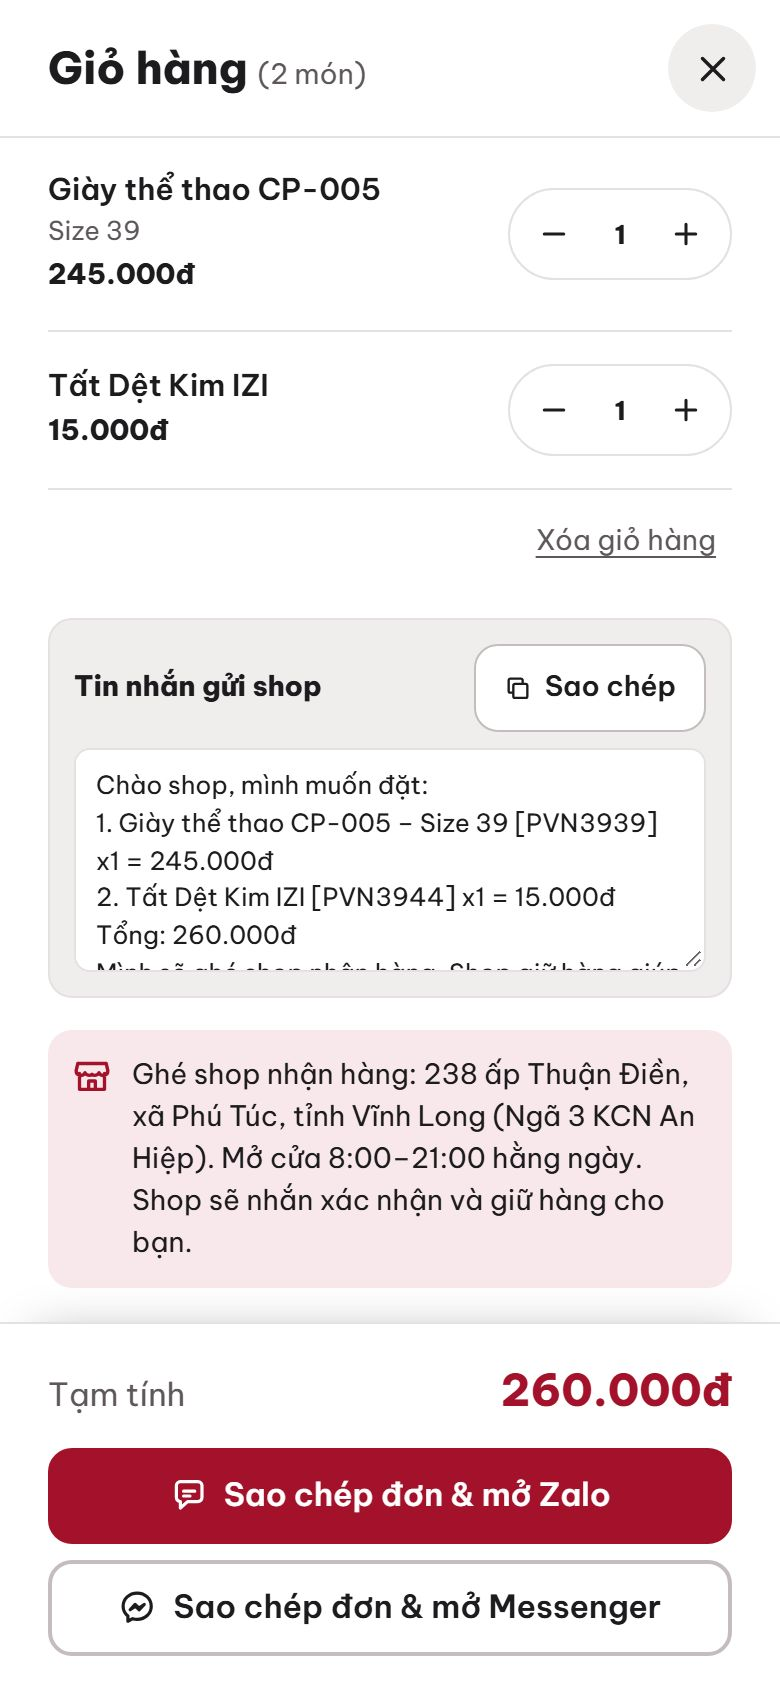
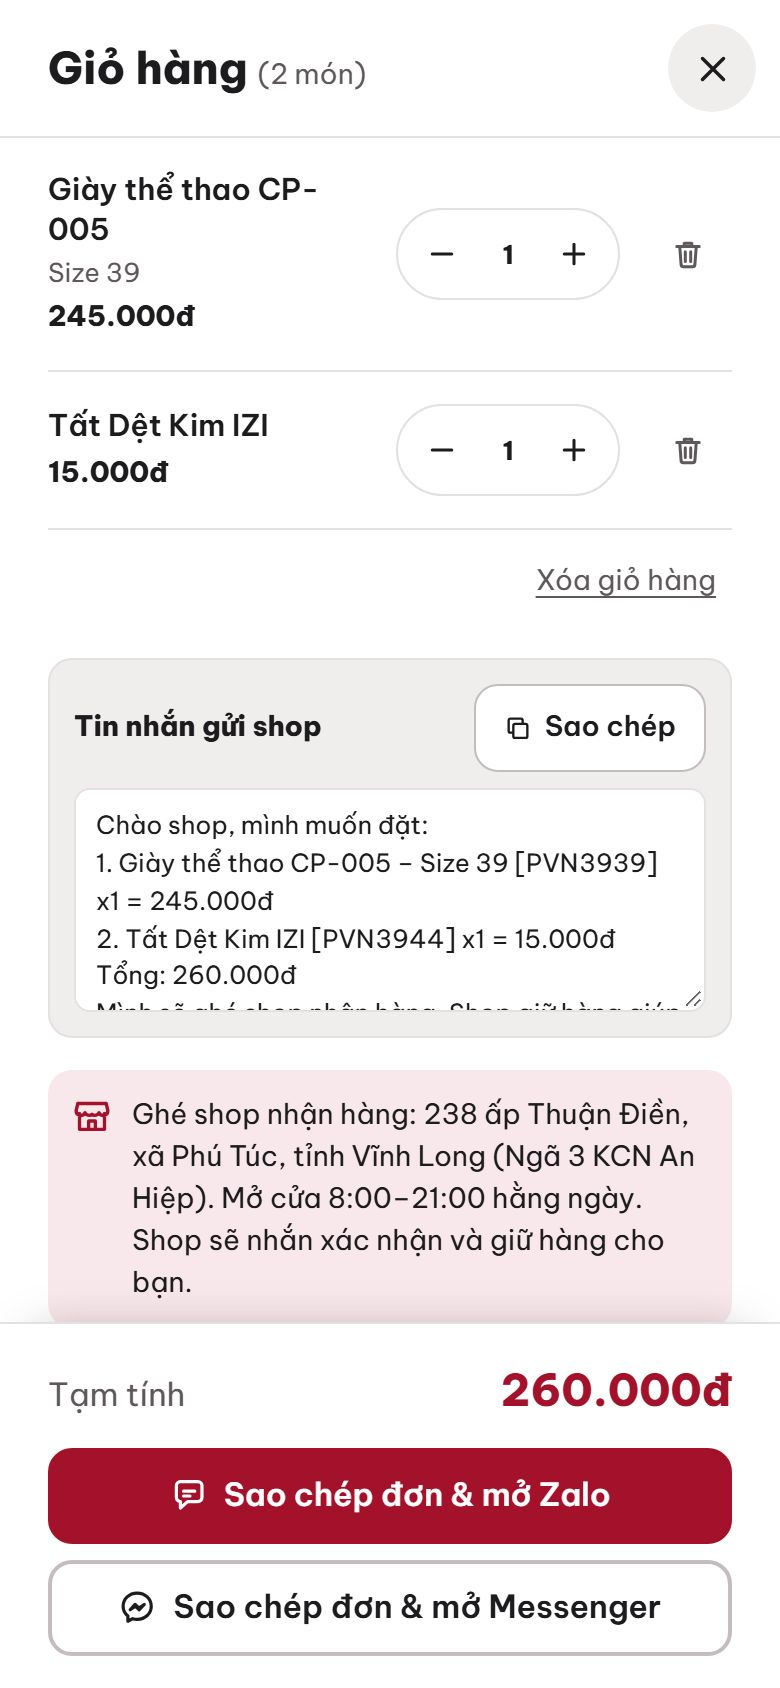
Sửa 13 phát hiện rà soát giao diện mới (Next.js) + kiểm thử chống tái phát
- Thẻ: điện thoại chỉ hiện hãng ở dòng nhỏ (không bị cắt), bỏ khoảng trống dưới tên ngắn,
  size hết hàng viền nét đứt; hình minh họa không in số trên áo
- Phần mở đầu điện thoại không lặp nút Zalo; dải lợi ích căn đều; thẻ Ghé shop bỏ dòng lặp ý
- Giỏ: nút bỏ từng món (≥ 44 px, nhãn đọc màn hình)
- Cuộn tôn trọng giảm chuyển động (scrollMode); cờ tìm nhanh hết hạn 3 giây;
  key cho trang chi tiết; xóa mã thừa (hueOf, .sr, .btn.block)
- test_giao_dien mục 8 (10 kiểm tra); tất cả bài 0 lỗi; pytest 28 đạt;
  Lighthouse trang chủ 99/100/100/100, trang SP 100/100/100/100; ảnh after chụp lại
- QUESTIONS Q12: ngưỡng nhãn Sắp hết

diff --git a/sport-shop-next/frontend/app/globals.css b/sport-shop-next/frontend/app/globals.css
@@ -68,7 +68,6 @@ h1,h2,h3{line-height:1.2;margin:0}p{margin:0}
 .strip :focus-visible,.hero :focus-visible,.promo :focus-visible,footer :focus-visible{outline-color:#fff}
 .wrap{max-width:1180px;margin:0 auto;padding:0 20px}
 .i{flex:none;width:1em;height:1em;vertical-align:-.15em}
-.sr{position:absolute;width:1px;height:1px;overflow:hidden;clip:rect(0 0 0 0);white-space:nowrap}
 
 /* ===== Nút ===== */
 .btn{display:inline-flex;align-items:center;justify-content:center;gap:var(--sp-2);min-height:48px;padding:0 var(--sp-5);border:2px solid var(--brand);border-radius:var(--r);background:var(--brand);color:var(--on-brand);font-weight:600;font-size:var(--fs-base);line-height:1.2;text-decoration:none;text-align:center;cursor:pointer;transition:background-color var(--dur) var(--ease),border-color var(--dur) var(--ease),color var(--dur) var(--ease),transform var(--dur) var(--ease)}
@@ -82,7 +81,6 @@ h1,h2,h3{line-height:1.2;margin:0}p{margin:0}
 .btn.light{background:transparent;border-color:rgba(255,255,255,.6);color:#fff}
 .btn.light:hover{background:rgba(255,255,255,.12);border-color:#fff}
 .btn.sm{min-height:44px;padding:0 var(--sp-4);font-size:var(--fs-md)}
-.btn.block{width:100%}
 .ib{display:inline-grid;place-items:center;flex:none;position:relative;width:44px;height:44px;border-radius:var(--r-pill);border:1px solid var(--line);background:var(--surface);color:var(--ink);font-size:21px;text-decoration:none;transition:background-color var(--dur) var(--ease),border-color var(--dur) var(--ease)}
 .ib:hover{border-color:var(--line-strong);background:var(--surface-2)}
 .ib:active{transform:translateY(1px)}
@@ -484,4 +482,26 @@ footer .fnote{grid-column:1/-1;padding-top:var(--sp-4);border-top:1px solid rgba
 /* Giảm chuyển động: tắt hiệu ứng, cuộn tức thì */
 @media(prefers-reduced-motion:reduce){
   *,*::before,*::after{animation:none!important;transition:none!important;scroll-behavior:auto!important}
+}
+
+/* ===== Sửa sau rà soát giao diện (24/11/2026) ===== */
+/* giỏ: nút bỏ từng món */
+.ci>div:first-child{flex:1;min-width:0}
+.rmi{display:grid;place-items:center;flex:none;width:44px;height:44px;border:0;border-radius:50%;background:none;color:var(--muted);font-size:18px}
+.rmi:hover{color:var(--danger);background:var(--surface-2)}
+/* size hết hàng trên thẻ: viền nét đứt như trang chi tiết, chữ không mờ */
+.szb:disabled{background:transparent;border:1.5px dashed var(--line-strong);color:var(--muted);opacity:1}
+@media(max-width:860px){
+ /* thanh dưới đã có nút Zalo: phần mở đầu chỉ giữ "Xem sản phẩm" */
+ .hbtns .btn.light[data-zl]{display:none}
+ .hbtns{grid-template-columns:1fr}
+}
+@media(max-width:600px){
+ /* dòng nhỏ trên tên: chỉ hiện hãng (nếu có) để không bị cắt; không có hãng thì hiện danh mục */
+ .cinfo small.hb .mc,.cinfo small.hb .sep{display:none}
+ /* tên ngắn không chừa khoảng trống 2 dòng */
+ .cinfo h3{min-height:0}
+ /* dải lợi ích: ba cột căn đỉnh, chữ chia dòng cân */
+ .perks li{justify-content:flex-start}
+ .perks b{text-wrap:balance}
 }

diff --git a/sport-shop-next/frontend/components/Shop.tsx b/sport-shop-next/frontend/components/Shop.tsx
@@ -1,7 +1,7 @@
 "use client";
 import Link from "next/link";
 import { useEffect, useMemo, useRef, useState, type CSSProperties } from "react";
-import { artColors, CATEGORIES, colorStock, defaultColor, fold, hexesIn, ICON_OF, imgsFor, links, money, optLabel, PAGE, stockStatus, unpack, type Packed, type Product } from "@/lib/shop";
+import { artColors, CATEGORIES, scrollMode, colorStock, defaultColor, fold, hexesIn, ICON_OF, imgsFor, links, money, optLabel, PAGE, stockStatus, unpack, type Packed, type Product } from "@/lib/shop";
 import { focusSearch, searchIntent } from "./Header";
 import { Art, CatIcon, Icon } from "./Icons";
 import { useShop } from "./Providers";
@@ -58,7 +58,7 @@ function Card({ p }: { p: Product }) {
         {first ? <img src={first} alt={p.name} loading="lazy" decoding="async" width={400} height={400} /> : <Placeholder p={p} color={color} />}
       </Link>
       <div className="cinfo">
-        <small>{p.cat}{p.brand && ` · ${p.brand}`}</small>
+        <small className={p.brand ? "hb" : undefined}><span className="mc">{p.cat}</span>{p.brand && <span className="mbr"><span className="sep"> · </span>{p.brand}</span>}</small>
         <h3><Link href={href} className="nm" onClick={remember}>{p.name}</Link></h3>
         <div className="price">{(lo !== hi ? "Từ " : "") + money(lo)}</div>
         {multi && (
@@ -119,8 +119,9 @@ export default function Storefront({ data, updated }: { data: Packed; updated: s
   }, [ret]);
   // Bấm nút tìm ở đầu trang khi đang ở trang khác: tới đây rồi đặt con trỏ vào ô tìm
   useEffect(() => {
-    if (!searchIntent.pending) return;
-    searchIntent.pending = false;
+    const fresh = searchIntent.at && Date.now() - searchIntent.at < 3000;
+    searchIntent.at = 0;
+    if (!fresh) return;
     const t = setTimeout(focusSearch, 60);
     return () => clearTimeout(t);
   }, []);
@@ -132,7 +133,7 @@ export default function Storefront({ data, updated }: { data: Packed; updated: s
   }, [S.limit]);
 
   const set = (patch: Partial<typeof S>) => setList((s) => ({ ...s, ...patch, limit: PAGE }));
-  const goCat = (c: string) => { set({ cat: c }); document.getElementById("san-pham")?.scrollIntoView({ behavior: "smooth" }); };
+  const goCat = (c: string) => { set({ cat: c }); document.getElementById("san-pham")?.scrollIntoView({ behavior: scrollMode() }); };
 
   return (
     <>

diff --git a/sport-shop-next/frontend/components/ArtSprite.tsx b/sport-shop-next/frontend/components/ArtSprite.tsx
@@ -11,7 +11,7 @@ const FLOOR = <ellipse cx="100" cy="176" rx="66" ry="7" stroke="none" style={{ f
 const NUM: CSSProperties = { fill: "var(--n)", fontFamily: "var(--font), system-ui, sans-serif" };
 const JERSEY = "M72 36 50 43 26 64l14 26 16-9v81q0 5 5 5h78q5 0 5-5V81l16 9 14-26-24-21-22-7q-7 14-28 15-21-1-28-15z";
 
-function Jersey({ crest, num }: { crest?: boolean; num: string }) {
+function Jersey({ crest, num = "" }: { crest?: boolean; num?: string }) {
   return (
     <>
       <path style={A} d={JERSEY} />
@@ -20,7 +20,7 @@ function Jersey({ crest, num }: { crest?: boolean; num: string }) {
       <path fill="rgba(0,0,0,.2)" stroke="none" d="M76 37q24 11 48 0-4 11-24 12-20-1-24-12z" />
       <path fill="none" style={{ stroke: "var(--b)" }} strokeWidth={6} d="M73 37q7 14 27 14t27-14" />
       {crest && <path style={B} strokeWidth={2} d="M117 66h14v8q0 7-7 10-7-3-7-10z" />}
-      <text x="100" y={crest ? 126 : 120} textAnchor="middle" fontSize={crest ? 27 : 32} fontWeight={800} stroke="none" letterSpacing="-1" style={NUM}>{num}</text>
+      {num && <text x="100" y={crest ? 126 : 120} textAnchor="middle" fontSize={crest ? 27 : 32} fontWeight={800} stroke="none" letterSpacing="-1" style={NUM}>{num}</text>}
       <path fill="none" d={JERSEY} />
     </>
   );
@@ -29,9 +29,9 @@ function Jersey({ crest, num }: { crest?: boolean; num: string }) {
 const LACES = <path fill="none" style={{ stroke: "var(--l)" }} strokeWidth={3.5} d="M120 77l9 9M114 84l9 9M108 91l9 9" />;
 
 const ART: Record<string, React.ReactNode> = {
-  jersey: <Jersey crest num="238" />,
-  tee: <Jersey num="238" />,
-  kids: <g transform="translate(22 40) scale(.78)"><Jersey num="8" /></g>,
+  jersey: <Jersey crest />,
+  tee: <Jersey />,
+  kids: <g transform="translate(22 40) scale(.78)"><Jersey /></g>,
   boot: (
     <>
       <path style={A} d="M30 132c-2-20 10-30 28-32l28-4c6-12 14-22 26-26l16 2c4 16 16 26 34 32l16 6c10 4 12 16 6 24l-4 4-146 2c-4-1-4-4-4-8z" />

diff --git a/sport-shop-next/frontend/components/ProductDetail.tsx b/sport-shop-next/frontend/components/ProductDetail.tsx
@@ -2,7 +2,7 @@
 import Link from "next/link";
 import { useRouter } from "next/navigation";
 import { useEffect, useRef, useState } from "react";
-import { colorStock, defaultColor, HOURS, imgsFor, links, money, NEED_SIZE, optLabel, phone, priceText, sizeGroup, type Product } from "@/lib/shop";
+import { scrollMode, colorStock, defaultColor, HOURS, imgsFor, links, money, NEED_SIZE, optLabel, phone, priceText, sizeGroup, type Product } from "@/lib/shop";
 import { cartLabel } from "./Header";
 import { Icon } from "./Icons";
 import { useShop } from "./Providers";
@@ -14,7 +14,7 @@ function Gallery({ p, color }: { p: Product; color: string }) {
   const track = useRef<HTMLDivElement>(null);
   const [i, setI] = useState(0);
   useEffect(() => { setI(0); track.current?.scrollTo({ left: 0 }); }, [color]);
-  const go = (k: number) => { const t = track.current; if (t) t.scrollTo({ left: k * t.clientWidth, behavior: "smooth" }); setI(k); };
+  const go = (k: number) => { const t = track.current; if (t) t.scrollTo({ left: k * t.clientWidth, behavior: scrollMode() }); setI(k); };
   const onScroll = () => { const t = track.current; if (t && t.clientWidth) setI(Math.round(t.scrollLeft / t.clientWidth)); };
   return (
     <div className="gal">
@@ -66,7 +66,7 @@ export default function ProductDetail({ p, updated }: { p: Product; updated: str
   const pickSize = (s: string) => { setSize(s); setNeed(false); keep(color, s); };
   const addToCart = () => {
     if (!v) {
-      if (needSize) { setNeed(true); sizeBox.current?.scrollIntoView({ behavior: "smooth", block: "center" }); }
+      if (needSize) { setNeed(true); sizeBox.current?.scrollIntoView({ behavior: scrollMode(), block: "center" }); }
       return toast(needSize ? "Bạn chưa chọn size" : "Sản phẩm tạm hết hàng");
     }
     if (v.stock <= 0) return;

diff --git a/sport-shop-next/frontend/lib/shop.ts b/sport-shop-next/frontend/lib/shop.ts
@@ -145,7 +145,8 @@ export const abs = (path: string) => (SITE_URL ? SITE_URL + path : "");
 
 export const money = (n: number) => n.toLocaleString("vi-VN") + "đ";
 export const phone = (z: string) => z.replace(/^(\d{4})(\d{3})(\d{3,4})$/, "$1 $2 $3");
-export const hueOf = (s: string) => [...s].reduce((h, c) => (h * 31 + c.charCodeAt(0)) % 360, 0);
+/** Kiểu cuộn: "auto" khi người dùng bật giảm chuyển động (lệnh cuộn ghi rõ "smooth" sẽ thắng CSS) */
+export const scrollMode = (): ScrollBehavior => (typeof window !== "undefined" && window.matchMedia?.("(prefers-reduced-motion: reduce)").matches ? "auto" : "smooth");
 export const imgsFor = (p: Product, color: string) => p.images[`${p.id}:${color}`] ?? p.images[p.id] ?? [];
 export const priceText = (p: Product) => (p.min !== p.max ? "Từ " : "") + money(p.min);
 export const stockStatus = (p: Product): [string, string] => (p.stock <= 0 ? ["Hết hàng", "out"] : p.stock <= 5 ? ["Sắp hết", "warn"] : ["Còn hàng", ""]);

diff --git a/sport-shop-next/frontend/components/Icons.tsx b/sport-shop-next/frontend/components/Icons.tsx
@@ -21,6 +21,7 @@ const UI = {
   arrow: "M5 12h13.5M13 6.5l5.5 5.5-5.5 5.5",
   plus: "M12 5.5v13M5.5 12h13",
   minus: "M5.5 12h13",
+  trash: "M4.5 7h15M9.5 7V4.8h5V7M6.5 7l.9 12.2a1.5 1.5 0 0 0 1.5 1.3h6.2a1.5 1.5 0 0 0 1.5-1.3L17.5 7M10.2 10.5v6.5M13.8 10.5v6.5",
   copy: "M9.5 8.5h9a1.5 1.5 0 0 1 1.5 1.5v9a1.5 1.5 0 0 1-1.5 1.5h-9A1.5 1.5 0 0 1 8 19v-9a1.5 1.5 0 0 1 1.5-1.5zM16 8.5V5.5A1.5 1.5 0 0 0 14.5 4h-9A1.5 1.5 0 0 0 4 5.5v9A1.5 1.5 0 0 0 5.5 16H8",
   check: "M5 12.5 9.5 17 19 7.5",
   store: "M4.5 10.5V20h15v-9.5M3.5 4.5h17l1 4.2a2.8 2.8 0 0 1-5.3 1.4 2.8 2.8 0 0 1-4.2.9 2.8 2.8 0 0 1-4.2-.9 2.8 2.8 0 0 1-5.3-1.4zM10 20v-5h4v5",

diff --git a/sport-shop-next/frontend/components/CartDrawer.tsx b/sport-shop-next/frontend/components/CartDrawer.tsx
@@ -89,6 +89,7 @@ export default function CartDrawer() {
                 <span aria-label={`Số lượng ${i.qty}`}>{i.qty}</span>
                 <button type="button" data-q="1" data-k={k} onClick={() => change(i.id, 1)} aria-label={`Tăng số lượng ${i.name}`}><Icon n="plus" /></button>
               </div>
+              <button type="button" className="rmi" data-rm={k} onClick={() => change(i.id, -i.qty)} aria-label={`Bỏ ${i.name}${i.lb ? ` (${i.lb})` : ""} khỏi giỏ`} title="Bỏ khỏi giỏ"><Icon n="trash" /></button>
             </div>
           ))}
           {has && (

diff --git a/sport-shop-next/frontend/app/page.tsx b/sport-shop-next/frontend/app/page.tsx
@@ -41,7 +41,6 @@ export default async function Home() {
             <ul>
               <li><Icon n="pin" /><span>{site.address}</span></li>
               <li><Icon n="clock" /><span>Mở cửa {HOURS.time}, {HOURS.days}</span></li>
-              <li><Icon n="box" /><span>Nhắn shop trước để shop giữ đúng size, màu cho bạn</span></li>
             </ul>
             <div className="row">
               <a className="btn ghost sm" data-map href={l.map} target="_blank" rel="noopener"><Icon n="map" />Chỉ đường</a>

diff --git a/sport-shop-next/frontend/app/san-pham/[id]/page.tsx b/sport-shop-next/frontend/app/san-pham/[id]/page.tsx
@@ -69,7 +69,7 @@ export default async function Page({ params }: Props) {
   return (
     <>
       <script type="application/ld+json" dangerouslySetInnerHTML={{ __html: JSON.stringify(ld).replace(/</g, "\\u003c") }} />
-      <ProductDetail p={p} updated={updated} />
+      <ProductDetail key={p.id} p={p} updated={updated} />
     </>
   );
 }

diff --git a/tests/test_giao_dien.py b/tests/test_giao_dien.py
@@ -204,6 +204,42 @@ with sync_playwright() as pw:
         a = pg.evaluate("[document.activeElement.id,Math.round(document.getElementById('q').getBoundingClientRect().top)]")
         ok(a[0] == "q" and 0 <= a[1] < 400, f"{w} px, trang chi tiết: bấm nút tìm → về danh sách, con trỏ vào ô tìm ({a})")
         ctx.close()
+
+    print("\n===== 8. Sửa sau rà soát (24/11/2026) =====")
+    # 8a. "Giảm chuyển động": cuộn tức thì, không cuộn mượt (lệnh cuộn trong mã không được ép "smooth")
+    ctx = b.new_context(viewport={"width": 390, "height": 844}, is_mobile=True, has_touch=True, reduced_motion="reduce"); pg = ctx.new_page(); pg.on("pageerror", lambda e: errs.append(str(e)))
+    home(pg); pg.locator(".cat[data-go]").first.click(); pg.wait_for_timeout(60)
+    y1 = pg.evaluate("scrollY"); pg.wait_for_timeout(1200); y2 = pg.evaluate("scrollY")
+    ok(y1 > 300 and abs(y2 - y1) < 5, f"giảm chuyển động: bấm danh mục → tới danh sách ngay, không cuộn mượt ({y1} → {y2})")
+    # 8b. vào trang chủ bình thường: không tự đưa con trỏ vào ô tìm
+    home(pg); pg.wait_for_timeout(300)
+    ok(pg.evaluate("document.activeElement.id") != "q", "vào trang chủ bình thường: con trỏ không tự nhảy vào ô tìm")
+    # 8c. hình minh họa không in số (dễ tưởng áo thật có số); nút Zalo ở phần mở đầu ẩn trên điện thoại (thanh dưới đã có)
+    ok(pg.evaluate("document.querySelectorAll('svg text').length") == 0, "hình minh họa không in chữ/số lên áo")
+    ok(not pg.locator(".hbtns [data-zl]").first.is_visible(), "điện thoại: phần mở đầu không lặp nút Zalo (thanh dưới đã có)")
+    # 8d. dòng nhỏ trên tên: SP có hãng chỉ hiện hãng, không bị cắt
+    bad = pg.evaluate("""()=>[...document.querySelectorAll('#grid .cinfo small')].filter(s=>s.scrollWidth>s.clientWidth+1).map(s=>s.innerText)""")
+    hb = pg.evaluate("""()=>[...document.querySelectorAll('#grid .cinfo small.hb')].map(s=>s.innerText.trim())""")
+    ok(not bad and hb and all("·" not in t for t in hb), f"điện thoại: dòng hãng/danh mục trên thẻ không bị cắt (bị cắt: {bad[:2]}; mẫu: {hb[:3]})")
+    # 8e. size hết hàng trên thẻ: viền nét đứt, chữ không mờ
+    st = pg.evaluate("(()=>{const e=document.querySelector('#grid .szb:disabled');if(!e)return null;const s=getComputedStyle(e);return [s.borderTopStyle,s.opacity]})()")
+    ok(st is not None and st[0] == "dashed" and float(st[1]) == 1, f"size hết hàng trên thẻ: viền nét đứt, không làm mờ ({st})")
+    # 8f. giỏ hàng: nút bỏ từng món (≥ 44 px, có nhãn đọc màn hình)
+    two = [v["id"] for p in prods for v in p["variants"] if v["inventory_quantity"] > 0][:2]
+    pg.evaluate("ids=>localStorage.setItem('cart5',JSON.stringify(ids.map(id=>({id,lb:'',qty:2}))))", two)
+    pg.reload(); pg.wait_for_selector("#grid .card"); pg.click("#bc" if pg.locator("#bc").is_visible() else "#cb"); pg.wait_for_timeout(400)
+    rm = pg.locator(".ci .rmi")
+    lab = rm.first.get_attribute("aria-label") or ""
+    box = rm.first.bounding_box()
+    ok(rm.count() == 2 and lab.startswith("Bỏ ") and box and box["width"] >= 43.5 and box["height"] >= 43.5, f"giỏ: mỗi món có nút bỏ khỏi giỏ ≥ 44 px ('{lab}')")
+    rm.first.click(); pg.wait_for_timeout(200)
+    ok(pg.locator(".ci").count() == 1 and pg.inner_text("#cn").strip() == "2", "bấm nút bỏ → món đó ra khỏi giỏ (cả số lượng), món kia còn nguyên")
+    ctx.close()
+    # 8g. máy tính: thẻ "Ghé shop" không lặp ý với dải lợi ích
+    ctx = b.new_context(viewport={"width": 1366, "height": 860}); pg = ctx.new_page(); home(pg)
+    ok("giữ đúng size" not in pg.inner_text(".visit"), "máy tính: thẻ Ghé shop chỉ có địa chỉ, giờ, nút (không lặp ý)")
+    ok(pg.locator(".hbtns [data-zl]").first.is_visible(), "máy tính: phần mở đầu vẫn có nút Nhắn Zalo")
+    ctx.close()
     b.close()
 
 print("\nLỖI JS:", errs[:3]); print("KẾT QUẢ:", len(fails) + len(errs), "lỗi"); print(fails)

diff --git a/PROGRESS.md b/PROGRESS.md
@@ -14,6 +14,7 @@ Chủ shop đã duyệt PROPOSALS: **A1–A7, B1–B6, C1, C3, D1–D7, E2**; vi
 - ✅ **E2** Next.js xuất web tĩnh là bản chính (`tools/export_next.py`, `daily_update.xuat_web` tự dùng HTML khi lỗi; `tests/test_seo.py`). Nhãn `on-dinh-2026-11-24-e2-next-tinh`. **Từ nay chức năng và giao diện mới chỉ làm trên Next.js** (xem CLAUDE.md).
 - ✅ **T (một phần)** `tests/test_a11y.py` (axe) + `tests/lighthouse.py`; cài: `cd tests && npm install`. ✅ **D5** axe 0 lỗi serious trên cả hai bản. Lighthouse: trang SP 98/100/100/100; trang chủ hiệu năng ~70 (xem phân tích trong BACKLOG: phần lớn do chi phí phông chữ của máy đo Windows).
 - ✅ **D1–D4, D7 (24/11/2026 tối) – làm lại giao diện bản Next.js:** hệ thống thiết kế viết lại gọn ở đầu `app/globals.css` (biến màu theo logo + bản tối đủ tương phản, thang chữ, khoảng cách, bo góc, bóng, nút và trạng thái); biểu tượng SVG `components/Icons.tsx` (bỏ emoji trang trí, dải chữ chạy, biểu tượng bay, backdrop-filter); chưa có ảnh thật thì hiện **hình minh họa SVG theo danh mục, tô theo màu sản phẩm** (`components/ArtSprite.tsx`, vẽ một lần mỗi trang); đầu trang gọn có nút tìm nhanh; phần mở đầu thấp (điện thoại 370 px) với thông điệp "Chọn size, nhắn Zalo, ghé shop nhận hàng" + giờ mở cửa; dải lợi ích; danh mục SVG (điện thoại vuốt ngang); trang chi tiết có ảnh vuốt (scroll-snap), **thanh "Thêm vào giỏ" dính đáy màn hình trên điện thoại** (gộp nút Zalo và giỏ, thay thanh dưới), khối "Ghé shop nhận hàng" (địa chỉ, giờ, chỉ đường Google Maps); giỏ gọn (tạm tính + 2 nút gửi đơn cố định ở cuối). Tốc độ: trang chủ gửi danh sách SP dạng gọn (`pack/unpack` trong `lib/shop.ts`), giỏ trống không tải `products.json`, logo 96 px WebP 3 KB, phông 3 độ đậm: trang chủ 235 KB → 138 KB. **Lighthouse (điện thoại, máy này): trang chủ 99/100/100/100 (trước 66–76 hiệu năng), trang SP 95–100/100/100/100.** Kiểm thử mới `tests/test_giao_dien.py` (65 mục), chụp ảnh `tests/chup_anh.py`, so sánh `screenshots/so-sanh.html`.
+- ✅ **Sửa sau rà soát giao diện (24/11 tối, 13 phát hiện, 0 nặng):** dòng hãng trên thẻ không bị cắt (điện thoại chỉ hiện hãng), bỏ khoảng trống dưới tên ngắn, bỏ nút Zalo lặp ở phần mở đầu trên điện thoại, dải lợi ích căn đều, size hết hàng viền nét đứt, nút bỏ từng món trong giỏ, hình minh họa không in số, bỏ dòng lặp ý ở thẻ Ghé shop, cuộn tôn trọng "giảm chuyển động" (`scrollMode()`), cờ tìm nhanh hết hạn sau 3 giây, `key` cho trang chi tiết, xóa mã thừa. Kiểm thử: test_giao_dien thêm mục 8 (10 kiểm tra) → 0 lỗi; 4 bài cơ bản, axe, SEO 0 lỗi; pytest 28 đạt; Lighthouse trang chủ 99/100/100/100, trang SP 100/100/100/100. Chưa sửa (ghi lại): tên SP dạng "AMAC- Blur" (chủ shop đặt "Tên hiển thị", Q11); ngưỡng "Sắp hết" (Q12).
 - ⏭ **Tiếp theo theo thứ tự:** A3 bảng size (dữ liệu từ `tai-lieu/bang-size-goc/`, Q3/Q4) + B1 gợi ý size → A4, A5, A6, B2–B5, C1, C3, N1 → B6 + N2 (trang quản trị) → G (nhập hàng an toàn, BACKLOG) → T (axe, Lighthouse, CI) → J (hướng dẫn đưa lên mạng).
 - Kiểm thử sau D1–D4 (web tĩnh Next 3702): test_all, test_feat, test_cards, test_mobile, test_giao_dien, test_a11y, test_seo đều 0 lỗi; pytest 28 đạt. Trước đó: pytest 28 bài đạt; test_seo 0 lỗi; 4 bài Playwright 0 lỗi trên web tĩnh Next (export_next + http.server 3602); trước đó: pytest 25 bài đạt (`py -m pytest`); `mvn test` 5 bài đạt (JDK/Maven di động ở `scratchpad/java`, có thể bị xóa — tải lại theo tests/README.md); 4 bài Playwright 0 lỗi trên Node 3000 và Next.js 3100.
 
